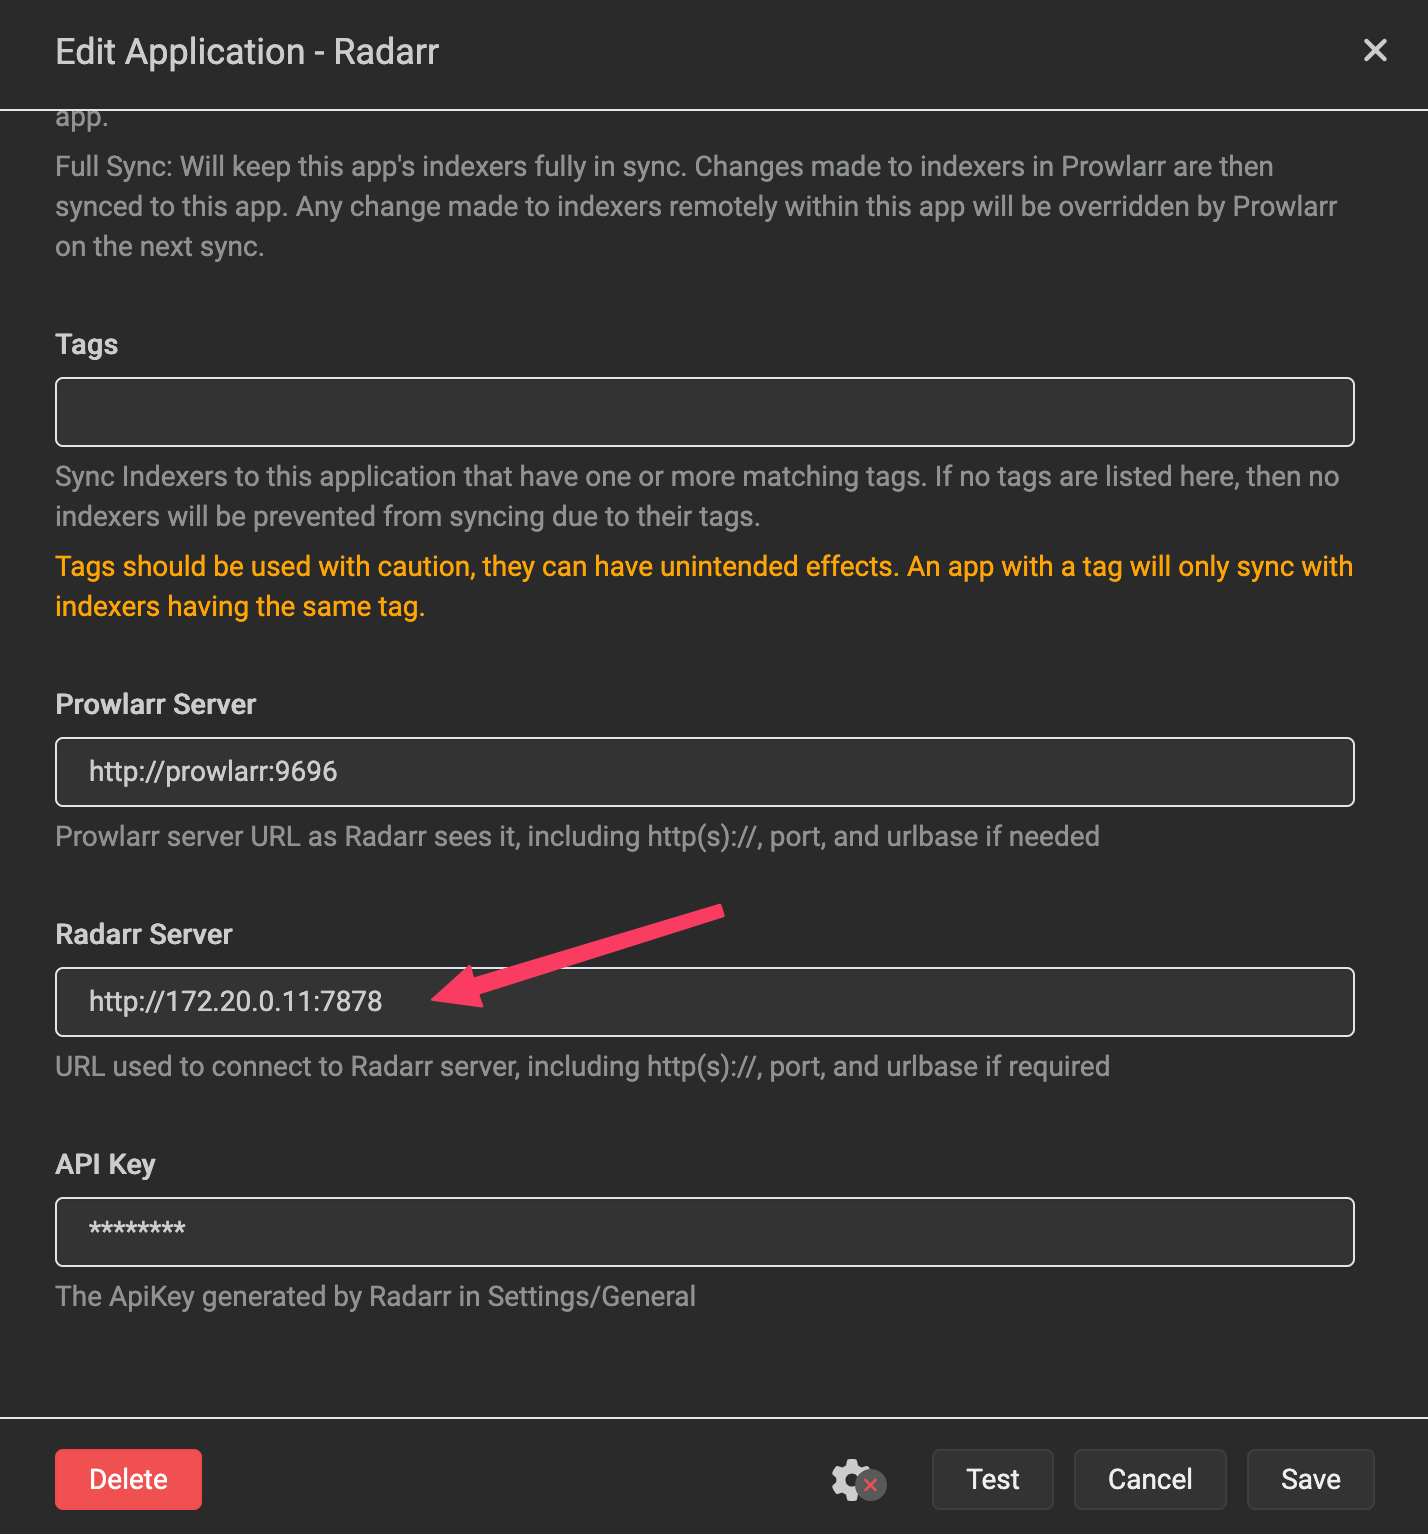
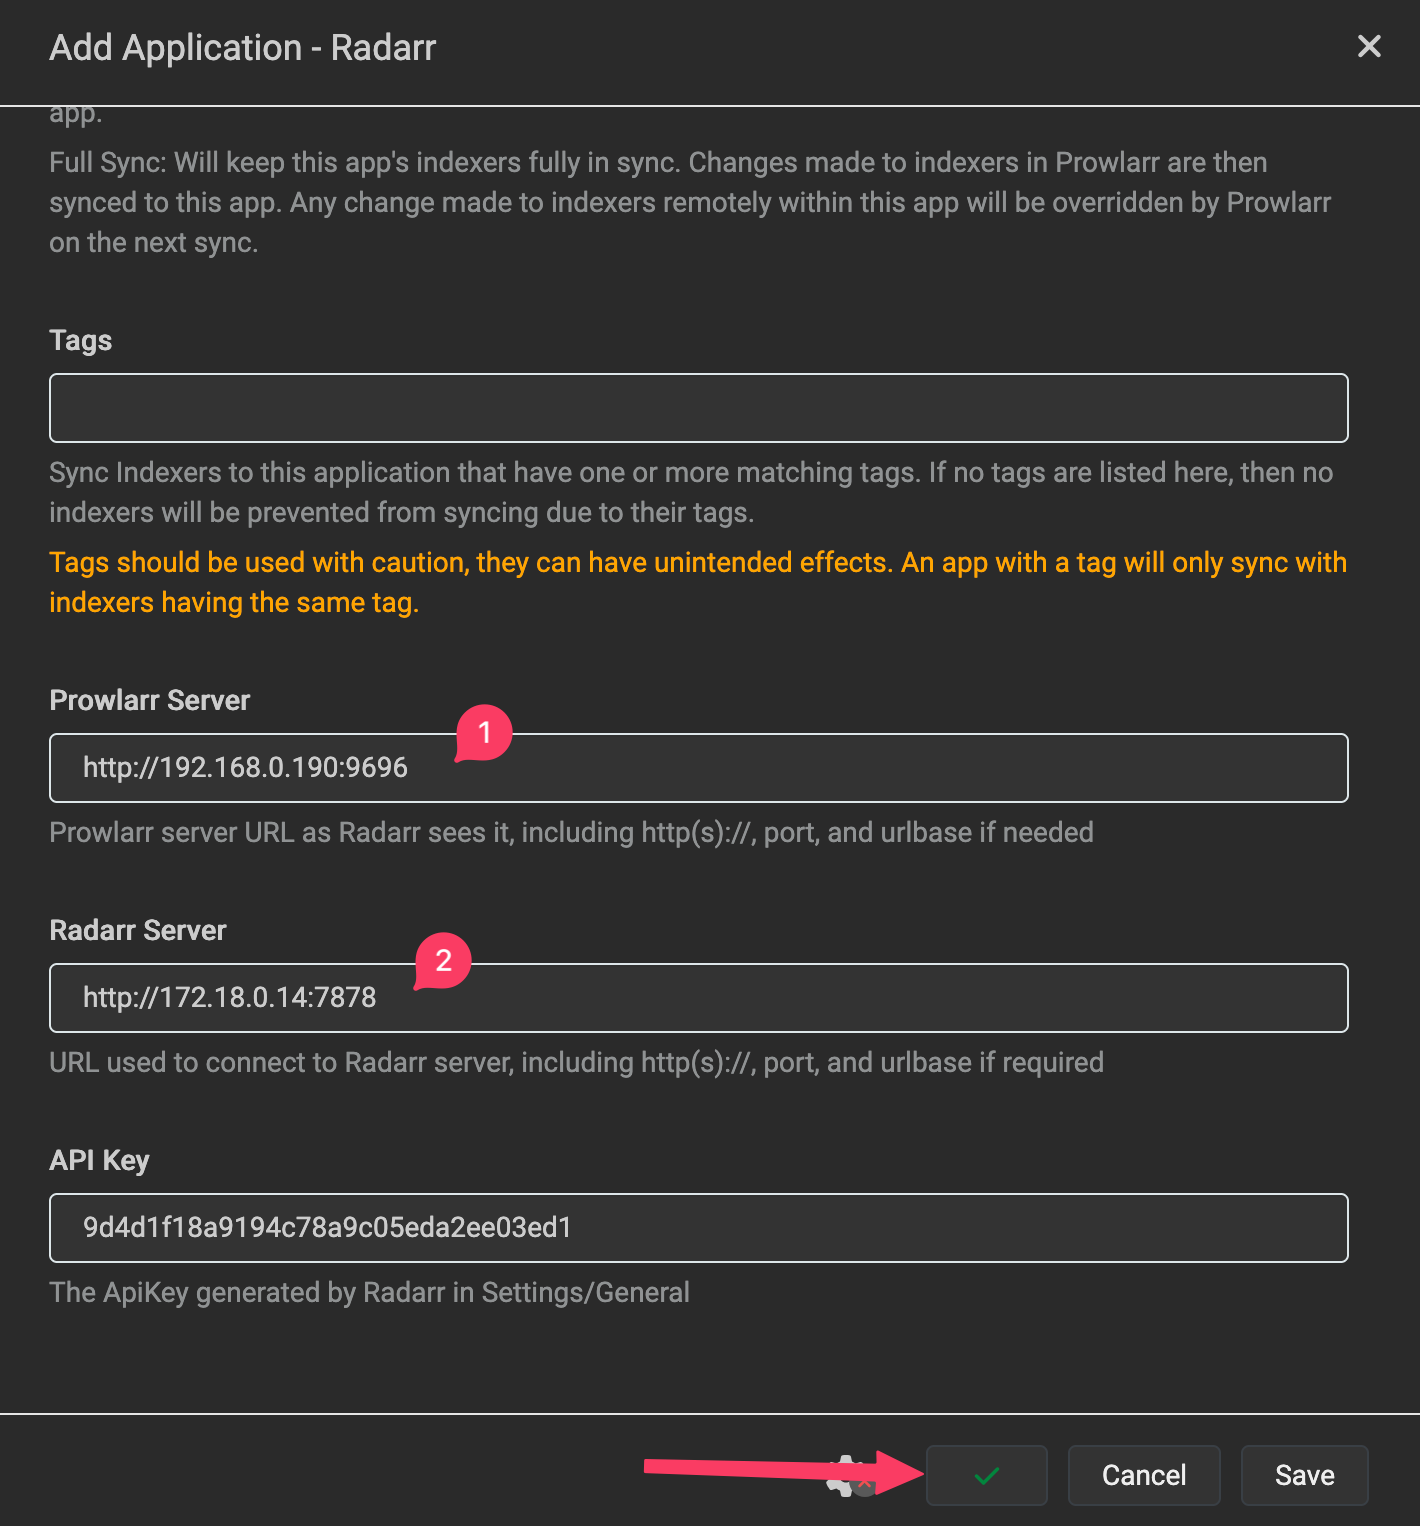
Update Prowlarr application connections for VPN usage
- Corrected IP addresses for Sonarr, Radarr, and Lidarr in the documentation.
- Updated instructions to reflect the correct IP address format.
- Added a note about replacing `your-host-ip` with the actual IP.
- Clarified the Prowlarr server setting to use the host IP.
- Updated images to reflect the changes.

diff --git a/content/advanced/prowlarr-behind-vpn.md b/content/advanced/prowlarr-behind-vpn.md
@@ -60,11 +60,7 @@ gluetun:
       - 8388:8388/udp   # Shadowsocks
       - 8080:8080/tcp   # gluetun
       - 9696:9696/tcp   # Add this line for Prowlarr
-    volumes:
-      - ${INSTALL_DIRECTORY}/config/gluetun:/config
-    environment:
-      ... # Leave this as is
-    restart: unless-stopped
+    # Leave the rest as is
 ```
 
 Key changes:
@@ -79,7 +75,7 @@ yams restart
 
 ### Step 4: Update Prowlarr's Application Connections 🔗
 
-Because Prowlarr is now routing its traffic through the VPN (Gluetun), it might not be able to resolve the internal Docker service names (like `radarr`, `sonarr`, `lidarr`) directly. You'll need to update the "Host" or "Server" settings for your connected applications within Prowlarr's "Apps" configuration to use their specific IP addresses.
+Because Prowlarr is now routing its traffic through the VPN (Gluetun), it won't be able to resolve the internal Docker service names (like `radarr`, `sonarr`, `lidarr`) directly. You'll need to update the "Host" or "Server" settings for your connected applications within Prowlarr's "Apps" configuration to use their specific IP addresses.
 
 1. **Access Prowlarr**: Go to `http://your-ip:9696`
 2. **Navigate to Settings > Apps**: Click on the "Apps" tab.
@@ -89,23 +85,23 @@ Because Prowlarr is now routing its traffic through the VPN (Gluetun), it might 
 3. **Edit Each Application**: For Radarr, Sonarr, and Lidarr, click on their respective entries to edit them.
 
 **For Sonarr**:
-  * Change the "Sonarr Server" URL from `http://sonarr:8989` to `http://172.20.0.10:8989`.
-  * Ensure "Prowlarr Server" remains `http://prowlarr:9696`.
+  * Change the "Sonarr Server" URL from `http://sonarr:8989` to `http://172.18.0.13:8989`.
+  * Ensure "Prowlarr Server" is set to `http://your-host-ip:9696` (replace `your-host-ip` with the actual IP address of your YAMS host, e.g., `192.168.0.190`).
   * Click "Test" and then "Save".
 
 [![prowlarr-behind-vpn-2](/pics/prowlarr-behind-vpn-2.png)](/pics/prowlarr-behind-vpn-2.png)
 
 **For Radarr**:
-  * Change the "Radarr Server" URL from `http://radarr:7878` to `http://172.20.0.11:7878`.
-  * Ensure "Prowlarr Server" remains `http://prowlarr:9696`.
+  * Change the "Radarr Server" URL from `http://radarr:7878` to `http://172.18.0.14:7878`.
+  * Ensure "Prowlarr Server" is set to `http://your-host-ip:9696` (replace `your-host-ip` with the actual IP address of your YAMS host, e.g., `192.168.0.190`).
   * Click "Test" and then "Save".
 
 [![prowlarr-behind-vpn-3](/pics/prowlarr-behind-vpn-3.png)](/pics/prowlarr-behind-vpn-3.png)
 
 **For Lidarr (Optional, if you want to use Lidarr)**:
   * If you haven't added Lidarr yet, click the `+` button, select "Lidarr".
-  * Set "Prowlarr Server" to `http://prowlarr:9696`.
-  * Set "Lidarr Server" to `http://172.20.0.12:8686` (assuming Lidarr uses port 8686).
+  * Set "Prowlarr Server" to `http://your-host-ip:9696` (replace `your-host-ip` with the actual IP address of your YAMS host, e.g., `192.168.0.190`).
+  * Set "Lidarr Server" to `http://172.18.0.15:8686` (assuming Lidarr uses port 8686).
   * Paste your Lidarr API Key.
   * Click "Test" and then "Save".
 
